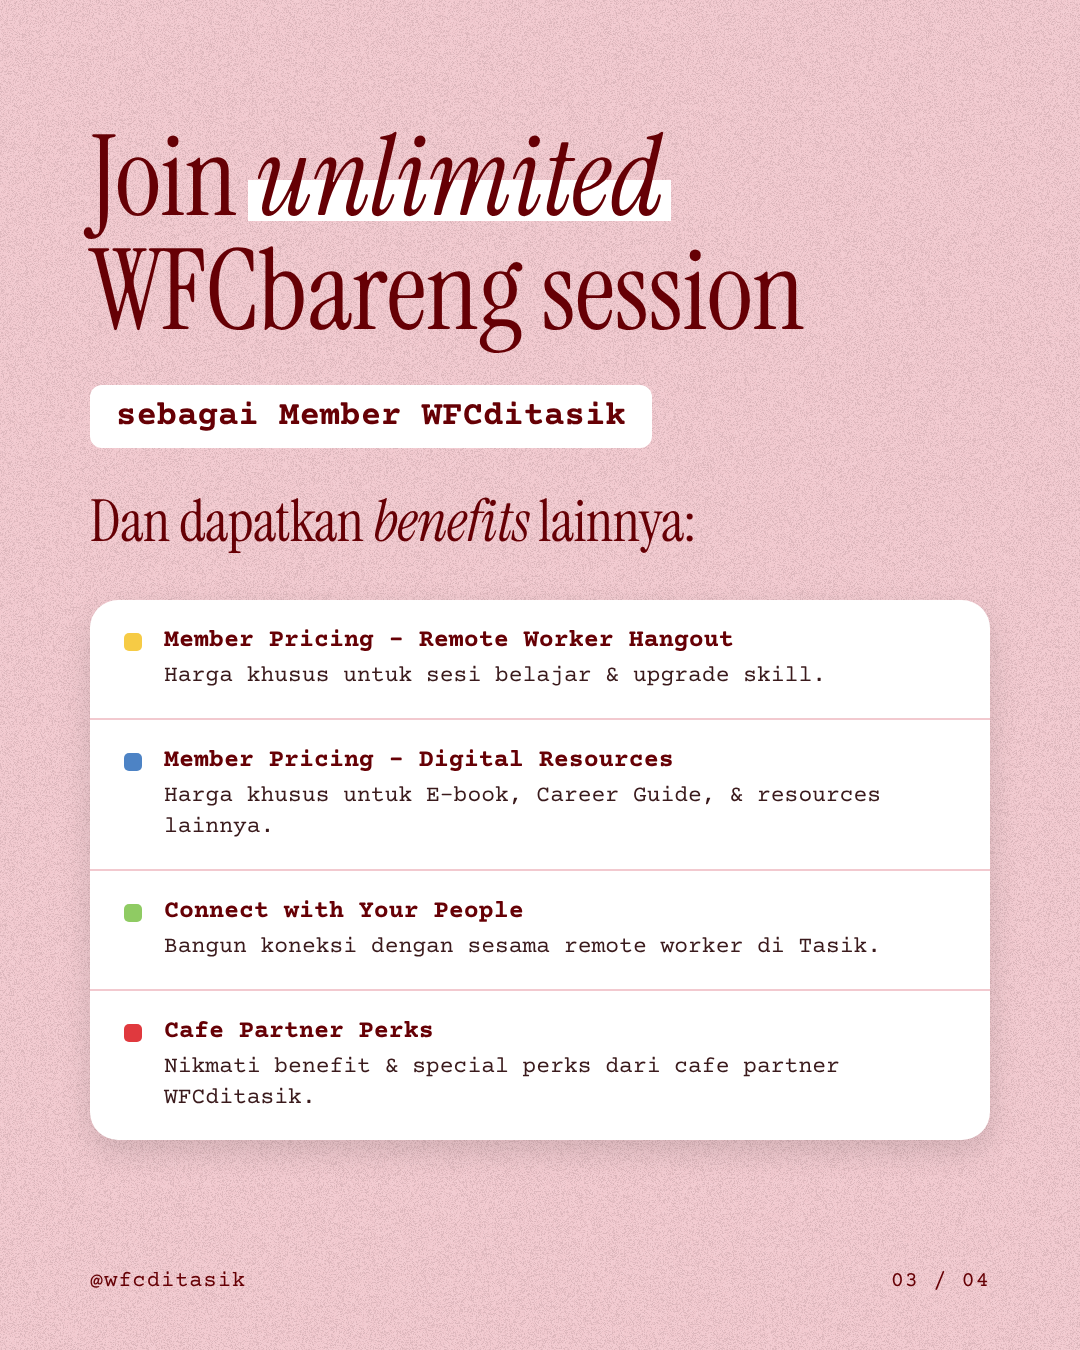
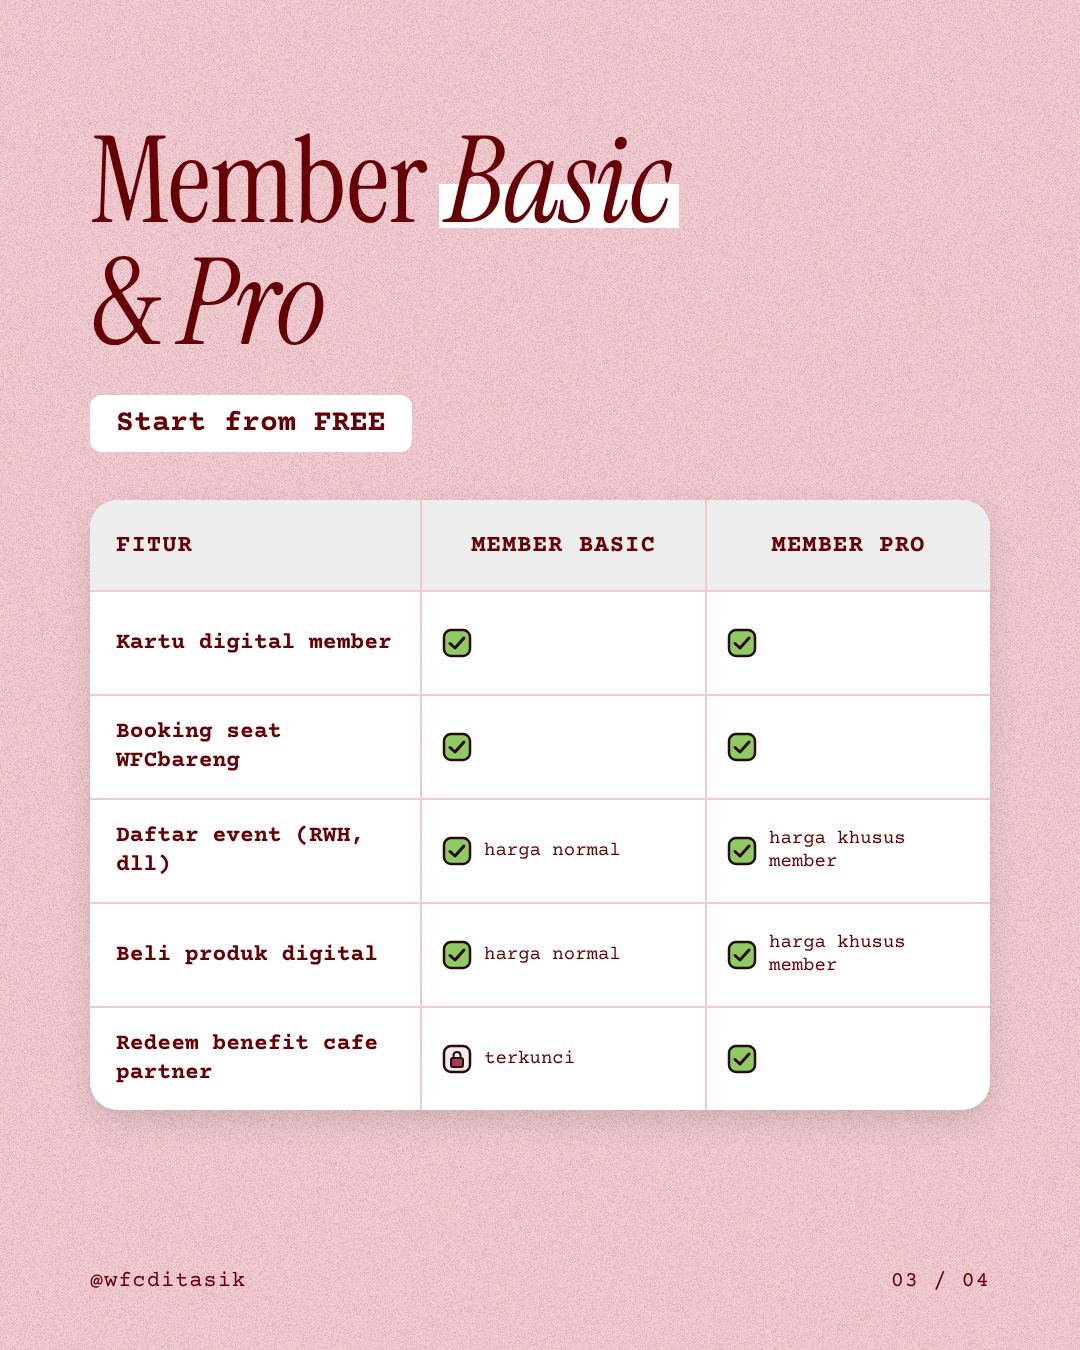
WFCbareng: new membership system (Basic free vs Pro) on slides 1-3; rebuild #12
Claude-Session: https://claude.ai/code/session_01DsAm2AcVqNGG97sjzMtSsP

Changed region(s): [[0.0611, 0.0933, 0.9167, 0.8711]]

diff --git a/tools/build_wfcbareng_poster.py b/tools/build_wfcbareng_poster.py
@@ -4,7 +4,7 @@ Usage:
   python3 tools/build_wfcbareng_poster.py --number 11 --date 2026-10-15 --bg maroon \
       --illustration posters/2026-10-15-11/illustration.svg [--qr qr.png] [--website example.com]
 
-Slides: 01 poster · 02 Who Can Join? · 03 member benefits · 04 join-member CTA.
+Slides: 01 poster · 02 Who can join? (member WFCditasik, start from FREE) · 03 Member Basic vs Pro table · 04 join-member CTA.
 Backgrounds rotate maroon -> pink -> gray (plain + grain texture).
 Fonts: "WFC bareng" title = Cooper BT (fonts/wfcbareng/WFCbareng.ttf|.otf if provided; else Fraunces
 Black Soft as stand-in). Everything else = brand-kit fonts (Instrument Serif, Courier Prime, Caveat).
@@ -101,7 +101,7 @@ def poster(n, date, t, ill, qr):
   <img class="abs" src="file://{os.path.abspath(ill)}" style="left:285px; top:642px; width:510px; z-index:3;">
   <div class="abs" style="left:66px; top:636px; transform:rotate(-8deg); z-index:4; background:#F6CB45; color:{RED}; padding:6px 22px 12px; border-radius:6px; box-shadow:0 6px 14px rgba(0,0,0,.15);">
     <div class="serif" style="font-size:64px; line-height:1;"><i>Free</i></div>
-    <div class="mono" style="font-size:16px; font-weight:700; margin-top:2px;">for member &amp;<br>non-member</div></div>
+    <div class="mono" style="font-size:16px; font-weight:700; margin-top:2px;">for member<br>WFCditasik</div></div>
   <div class="abs" style="left:90px; top:1078px; width:300px;">
     <div class="serif" style="font-size:92px; line-height:.9; color:{t['title']};">{HARI[d.weekday()].capitalize()}</div>
     <div class="mono" style="font-size:24px; font-weight:700; letter-spacing:1px; margin-top:10px;">{tanggal}</div>
@@ -112,47 +112,52 @@ def poster(n, date, t, ill, qr):
 </div>"""
 
 
+CHECK = ('<svg width="30" height="30" viewBox="0 0 30 30" style="flex:none;"><rect x="2" y="2" width="26" height="26" rx="7" fill="#8FCB63" stroke="#2B0A0C" stroke-width="2.5"/>'
+         '<path d="M8 15.5 L13 20 L22 10" fill="none" stroke="#2B0A0C" stroke-width="3" stroke-linecap="round" stroke-linejoin="round"/></svg>')
+LOCK = ('<svg width="30" height="30" viewBox="0 0 30 30" style="flex:none;"><rect x="2" y="2" width="26" height="26" rx="7" fill="#EDEDED" stroke="#2B0A0C" stroke-width="2.5"/>'
+        '<rect x="9" y="14" width="12" height="9" rx="2" fill="#A3404F" stroke="#2B0A0C" stroke-width="2"/>'
+        '<path d="M11.5 14 V11.5 Q11.5 8 15 8 Q18.5 8 18.5 11.5 V14" fill="none" stroke="#2B0A0C" stroke-width="2"/></svg>')
+
+
 def who(t):
-    cell = "padding:0 26px; display:flex; align-items:center; border-top:2px solid #F2C9CF;"
-    rows = [("#E0393E", "Seat", "Book langsung via QR", "Cek ketersediaan H&#8209;1"),
-            ("#F6CB45", "Booking", "Scan &rarr; Book &rarr; Done!", "DM @wfcditasik di&nbsp;H&#8209;1"),
-            ("#4D83C5", "Join", "Seat langsung terkonfirmasi", "Join jika masih tersedia")]
-    body = "".join(
-        f'<div style="display:grid; grid-template-columns:220px 1fr 1fr; height:120px;">'
-        f'<div style="{cell}"><span style="width:16px; height:16px; border-radius:4px; background:{c}; margin-right:14px; flex:none;"></span><span class="serif" style="font-size:36px;">{a}</span></div>'
-        f'<div class="mono" style="{cell} border-left:2px solid #F2C9CF; font-size:23px;">{b}</div>'
-        f'<div class="mono" style="{cell} border-left:2px solid #F2C9CF; font-size:23px;">{c2}</div></div>'
-        for c, a, b, c2 in rows)
-    head = "display:flex; align-items:center; justify-content:center; font-size:25px; font-weight:700; letter-spacing:1px; border-left:2px solid #F2C9CF;"
     return f"""<div class="slide"><div class="grain"></div>
   <div class="abs serif" style="left:90px; top:150px; width:900px; font-size:156px; color:{t['title']};">Who can<br><span class="mk"><i>join?</i></span></div>
-  <div class="abs" style="left:90px; top:500px;"><span class="chip" style="font-size:27px; letter-spacing:2px; padding:10px 24px;">MEMBER &amp; NON-MEMBER WFCDITASIK</span></div>
-  <div class="card" style="left:90px; top:610px; width:900px; overflow:hidden;">
-    <div style="display:grid; grid-template-columns:220px 1fr 1fr; height:96px; background:#EDEDED;">
-      <div></div><div class="mono" style="{head}">MEMBER</div><div class="mono" style="{head}">NON-MEMBER</div></div>
-    {body}</div>
-  {st('ui-accents/png/tag-wfc-blue.png', 880, 568, 130, 8)}
-  <div class="abs hand" style="left:90px; top:1100px; font-size:46px; transform:rotate(-3deg); color:{t['text']};">sampai ketemu hari Kamis!</div>
+  <div class="abs" style="left:90px; top:500px;"><span class="chip" style="font-size:30px; letter-spacing:2px; padding:12px 26px;">MEMBER WFCDITASIK</span></div>
+  <div class="card" style="left:90px; top:620px; width:900px; height:370px; padding:56px 60px;">
+    <div class="serif" style="font-size:76px; line-height:1.05;">How to be a <i>member?</i></div>
+    <div class="hand" style="font-size:50px; margin-top:14px; transform:rotate(-2deg); transform-origin:left;">It's very easy!</div>
+    <div style="display:flex; align-items:center; gap:22px; margin-top:40px;">
+      <span class="mono" style="flex:none; background:#8FCB63; color:#2B0A0C; border:3px solid #2B0A0C; border-radius:14px; font-size:30px; font-weight:700; padding:8px 18px;">Start from FREE</span>
+      <span class="mono" style="font-size:25px; line-height:1.35;">bisa jadi member basic WFCditasik.</span></div>
+  </div>
+  {st('ui-accents/png/tag-wfc-blue.png', 880, 578, 130, 8)}
+  <div class="abs hand" style="left:90px; top:1060px; font-size:46px; transform:rotate(-3deg); color:{t['text']};">sampai ketemu hari Kamis!</div>
   {foot(2)}
 </div>"""
 
 
 def benefits(t):
-    items = [("#F6CB45", "Member Pricing &ndash; Remote Worker Hangout", "Harga khusus untuk sesi belajar &amp; upgrade skill."),
-             ("#4D83C5", "Member Pricing &ndash; Digital Resources", "Harga khusus untuk E-book, Career Guide, &amp; resources lainnya."),
-             ("#8FCB63", "Connect with Your People", "Bangun koneksi dengan sesama remote worker di Tasik."),
-             ("#E0393E", "Cafe Partner Perks", "Nikmati benefit &amp; special perks dari cafe partner WFCditasik.")]
-    rows = "".join(
-        f'<div style="display:flex; gap:22px; padding:26px 34px; {"border-top:2px solid #F2C9CF;" if i else ""}">'
-        f'<span style="width:18px; height:18px; border-radius:5px; background:{c}; flex:none; margin-top:7px;"></span>'
-        f'<div><div class="mono" style="font-size:25px; font-weight:700;">{a}</div>'
-        f'<div class="mono" style="font-size:23px; margin-top:6px; line-height:1.35; color:#3A1A1C;">{b}</div></div></div>'
-        for i, (c, a, b) in enumerate(items))
+    def cell(ok, note=""):
+        icon = CHECK if ok else LOCK
+        txt = f'<span class="mono" style="font-size:19px; line-height:1.2;">{note}</span>' if note else ""
+        return f'<div style="display:flex; align-items:center; gap:12px; padding:0 20px; border-left:2px solid #F2C9CF; border-top:2px solid #F2C9CF;">{icon}{txt}</div>'
+    rows = [("Kartu digital member", (True, ""), (True, "")),
+            ("Booking seat WFCbareng", (True, ""), (True, "")),
+            ("Daftar event (RWH, dll)", (True, "harga normal"), (True, "harga khusus member")),
+            ("Beli produk digital", (True, "harga normal"), (True, "harga khusus member")),
+            ("Redeem benefit cafe partner", (False, "terkunci"), (True, ""))]
+    grid = "display:grid; grid-template-columns:330px 1fr 1fr;"
+    body = "".join(f'<div style="{grid} height:104px;"><div class="mono" style="display:flex; align-items:center; padding:0 26px; border-top:2px solid #F2C9CF; font-size:23px; font-weight:700; line-height:1.25;">{f}</div>{cell(*b)}{cell(*p)}</div>'
+                   for f, b, p in rows)
+    head = "display:flex; align-items:center; justify-content:center; font-size:24px; font-weight:700; letter-spacing:1px; border-left:2px solid #F2C9CF;"
     return f"""<div class="slide"><div class="grain"></div>
-  <div class="abs serif" style="left:90px; top:120px; width:900px; font-size:112px; color:{t['title']};">Join <span class="mk"><i>unlimited</i></span><br>WFCbareng session</div>
-  <div class="abs" style="left:90px; top:385px;"><span class="chip" style="font-size:34px; padding:12px 26px;">sebagai Member WFCditasik</span></div>
-  <div class="abs serif" style="left:90px; top:492px; font-size:58px; color:{t['title']};">Dan dapatkan <i>benefits</i> lainnya:</div>
-  <div class="card" style="left:90px; top:600px; width:900px; overflow:hidden;">{rows}</div>
+  <div class="abs serif" style="left:90px; top:120px; width:900px; font-size:120px; color:{t['title']};">Member <span class="mk"><i>Basic</i></span><br>&amp; <i>Pro</i></div>
+  <div class="abs" style="left:90px; top:395px;"><span class="chip" style="font-size:30px; padding:12px 26px;">Start from FREE</span></div>
+  <div class="card" style="left:90px; top:500px; width:900px; overflow:hidden;">
+    <div style="{grid} height:90px; background:#EDEDED;">
+      <div class="mono" style="display:flex; align-items:center; padding:0 26px; font-size:24px; font-weight:700; letter-spacing:1px;">FITUR</div>
+      <div class="mono" style="{head}">MEMBER BASIC</div><div class="mono" style="{head}">MEMBER PRO</div></div>
+    {body}</div>
   {foot(3)}
 </div>"""
 

diff --git a/posters/README.md b/posters/README.md
@@ -3,9 +3,10 @@
 Every Monday: ~07:00 WIB build the poster + slides, ~07:30 ask Diah for the QR code, finish with the QR, Diah approves, posted Monday 12:00 WIB (feed only).
 
 - Build: `python3 tools/build_wfcbareng_poster.py --number N --date YYYY-MM-DD(Thursday) --bg maroon|pink|gray --illustration posters/<date>-<N>/illustration.svg [--qr qr.png]`
-- 4 slides: 01 poster · 02 "Who can join?" (member vs non-member) · 03 member benefits · 04 CTA: join as member + visit the website (`--website`).
+- 4 slides: 01 poster · 02 "Who can join?" Member WFCditasik + "How to be a member? It's very easy! Start from FREE, bisa jadi member basic" · 03 Member Basic vs Member Pro table · 04 CTA: "Yuk jadi member WFCditasik" + website (`--website`).
+- Membership (since 19 Oct 2026): only members join WFCbareng; Basic is FREE. Basic vs Pro: kartu digital member ✅/✅ · booking seat WFCbareng ✅/✅ · daftar event (RWH, dll) harga normal / harga khusus member · beli produk digital harga normal / harga khusus member · redeem benefit cafe partner ❌ terkunci / ✅. No more "non-member" wording.
 - Background rotates by number: #11 maroon, #12 pink, #13 gray, #14 maroon, ... (N mod 3: 2 = maroon, 0 = pink, 1 = gray). Plain color + grain, never checker.
-- Fixed info: 09.00–12.00 Deep Work (No Distract) · 12.00–13.00 Break & Networking · 13.00–End Continue Working · Langgam Coffee & Book Tarumanagara · FREE for member & non-member.
+- Fixed info: 09.00–12.00 Deep Work (No Distract) · 12.00–13.00 Break & Networking · 13.00–End Continue Working · Langgam Coffee & Book Tarumanagara · FREE for member WFCditasik (Basic membership is free).
 - Illustration: a NEW original SVG every week, same flat style as #11 (ink outlines, Blood Red + pop accents, people working/WFC life). No photos, no Canva elements.
 - Fonts: ONLY the "WFC bareng" title uses Cooper BT (put a licensed file at `fonts/wfcbareng/WFCbareng.ttf`/.otf; until then Fraunces Black Soft is the stand-in), set big and tight like the original. Everything else uses the brand-kit fonts (Instrument Serif, Courier Prime, Caveat).
 - QR code: different per event; Diah sends it after approving the design.
